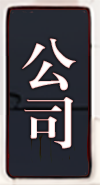
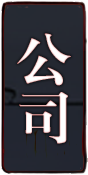
公司按钮

diff --git a/src/components/Game.vue b/src/components/Game.vue
@@ -49,7 +49,7 @@
   <button @click="goToLocation('去喝点东西')" class="action-button action-drink" v-if="isGoingOut" :disabled="isTyping"></button>
   <button @click="goToLocation('买东西')" class="action-button action-shopping" v-if="isGoingOut" :disabled="isTyping"></button>
   <button @click="goToLocation('地下钱庄之暴富金铺')" class="action-button action-buy-gold" v-if="isGoingOut" :disabled="isTyping"></button>
-  <button @click="goToLocation('公司')" class="action-button action-agency" v-if="isGoingOut && signedAgency" :disabled="isTyping">公司</button>
+  <button @click="goToLocation('公司')" class="action-button action-agency" v-if="isGoingOut && signedAgency" :disabled="isTyping"></button>
   <button @click="goToLocation('去剪头发')" class="action-button action-cut-hair" v-if="isGoingOut" :disabled="isTyping"></button>
   <button @click="goToLocation('上山修行')" class="action-button action-dao" v-if="isGoingOut" :disabled="isTyping"></button>
   <button @click="goToLocation('Underground')" class="action-button action-underground" v-if="isGoingOut" :disabled="isTyping"></button>

diff --git a/src/components/Game.css b/src/components/Game.css
@@ -183,6 +183,7 @@
 .action-drink {  background: url('@/assets/button_drinking.png') center / contain no-repeat;  width: 4.6vh;  height: 14.95vh;  top: 54%;  left: 32%; }
 .action-shopping {  background: url('@/assets/button_shopping.png') center / contain no-repeat;   width: 4.5vh;  height: 12.35vh;  top: 16%;  left: 38%; }
 .action-buy-gold {  background: url('@/assets/button_buy-gold.png') center / contain no-repeat;   width: 4.5vh;  height: 13.35vh;  top: 60%;  left: 47%; }
+.action-agency {  background: url('@/assets/button_agency.png') center / contain no-repeat;   width: 4.4vh;  height: 8.75vh;  top: 74%;  left: 28.4%; }
 .action-cut-hair {  background: url('@/assets/button_cut-hair.png') center / contain no-repeat;  width: 4.8vh;  height: 12vh;  top: 24%;  left: 56%; }
 .action-dao {  background: url('@/assets/button_Dao.png') center / contain no-repeat;   width: 4.9vh;  height: 9vh;  top: 27%;  right: 14%; }
 .action-underground {  background: url('@/assets/button_Underground.png') center / contain no-repeat;  width: 5.3vh;  height: 13.6vh;  top: 72%;  left: 12%; }

diff --git a/src/store/index.ts b/src/store/index.ts
@@ -479,9 +479,9 @@ const actions = {
       }
     }
 
-    if ( state.signedAgency && !Math.floor(state.round % 3) ) {
-      store.commit('updateAttribute', { attribute: "money", value: 500 * 5 })
-      context.dispatch('typeWriter', '姜云升签约了公司，本月到账工资500元。');
+    if ( state.signedAgency && !Math.floor(state.round % 9) ) {
+      store.commit('updateAttribute', { attribute: "money", value: 500 * 3 * 5 })
+      context.dispatch('typeWriter', '姜云升签约了公司，到账工资1500元。');
     }
 
     await new Promise(resolve => setTimeout(resolve, 600));
